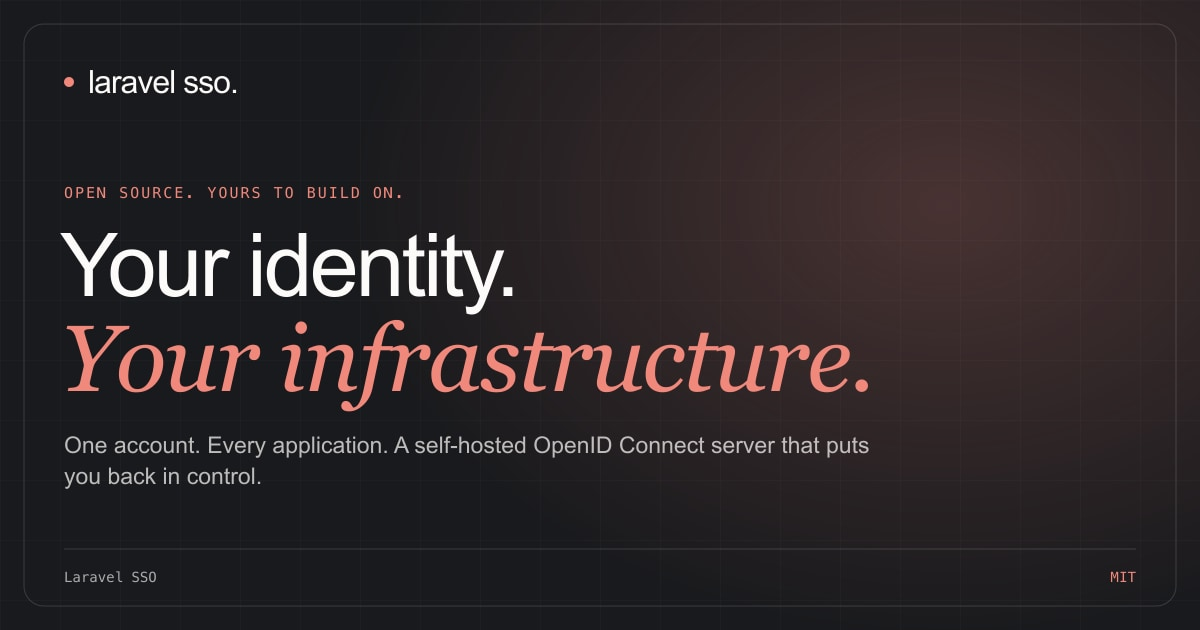
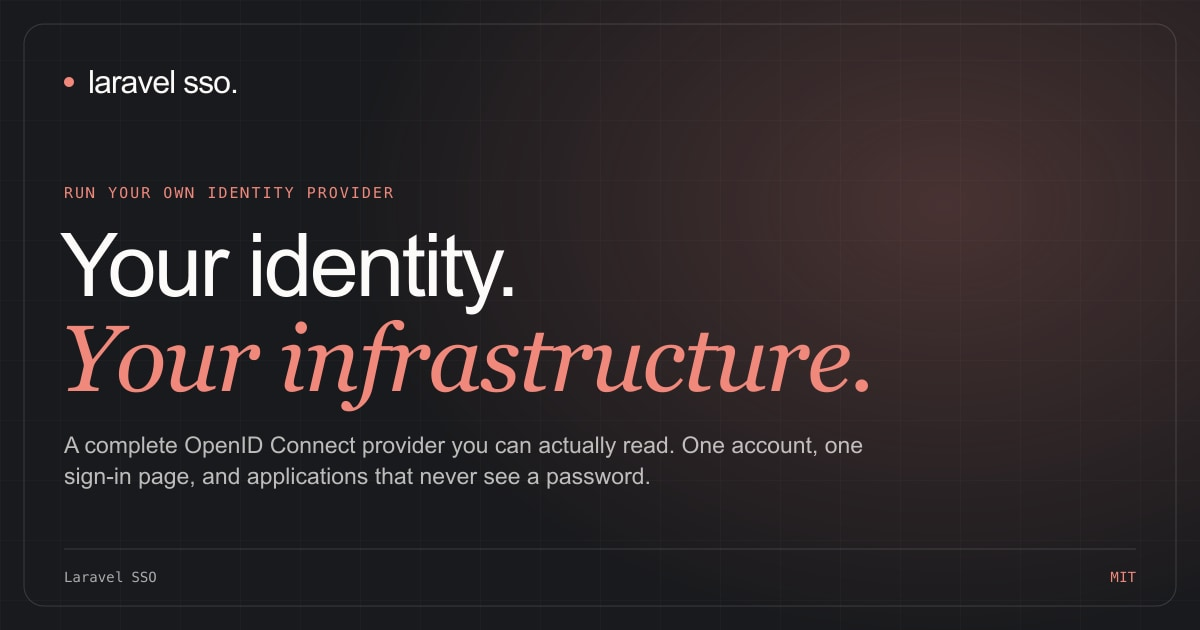
refactor: improve the content

Changed region(s): [[0.0308, 0.6937, 0.74, 0.7841], [0.0617, 0.2714, 0.3392, 0.3317]]

diff --git a/src/content/faq/frameworks.md b/src/content/faq/frameworks.md
@@ -3,4 +3,4 @@ question: Do my applications need to use Laravel?
 order: 2
 ---
 
-No. Applications connect through standard OpenID Connect. Use a compatible client library in your preferred language and configure it with your server’s issuer URL and application credentials.
+No. Applications connect over standard OpenID Connect, so any maintained client library will do — Laravel, Node, Python, Go, .NET, a mobile app, a single-page app. Point it at your issuer URL with the credentials you registered; most libraries read everything else from the discovery document.

diff --git a/src/content/faq/starter-kit.md b/src/content/faq/starter-kit.md
@@ -1,0 +1,6 @@
+---
+question: Is this a package or an application?
+order: 0
+---
+
+An application, not a dependency. Start from it with `laravel new my-sso --using=lauroguedes/laravel-sso`, or clone the repository, and the code is yours from that moment: your routes, your migrations, your deployment. Nothing upgrades the identity layer underneath you, which also means updates are yours to pull in, the way they are for the rest of your application.

diff --git a/src/content/faq/hosting.md b/src/content/faq/hosting.md
@@ -3,4 +3,4 @@ question: Where does my data live?
 order: 3
 ---
 
-On the infrastructure you choose. You host the application and its database, manage updates, and control access to your users, applications, and signing keys.
+On infrastructure you choose. You host the application and its database, and nobody else holds your users, your applications or your signing keys. It runs anywhere Laravel runs, on SQLite, MySQL, MariaDB or PostgreSQL.

diff --git a/src/content/faq/keycloak.md b/src/content/faq/keycloak.md
@@ -1,0 +1,6 @@
+---
+question: Why not Keycloak?
+order: 5
+---
+
+Keycloak does considerably more: realms, SAML, LDAP, identity brokering, federation. If you need those, use it. Laravel SSO covers OAuth 2.0 and OpenID Connect and stops there, which is why it fits in a Laravel application you can read, change and deploy yourself — and why there is no new runtime, admin console or configuration language to learn.

diff --git a/src/content/faq/ownership.md b/src/content/faq/ownership.md
@@ -3,4 +3,4 @@ question: Can I use this in a commercial project?
 order: 1
 ---
 
-Yes. Laravel SSO is MIT licensed. You can use, modify, and distribute it, including in commercial applications, while retaining the license notice.
+Yes. Laravel SSO is MIT licensed: use it, change it, ship it inside a commercial product, keep your changes private. The only obligation is to retain the licence notice.

diff --git a/src/content/faq/limits.md b/src/content/faq/limits.md
@@ -1,0 +1,6 @@
+---
+question: What isn’t included?
+order: 4
+---
+
+No SAML, no LDAP, and no federation between providers. This is an identity provider for the applications you run, not an enterprise IAM platform — the feature list stops roughly where the OAuth 2.0 and OpenID Connect specifications do.
